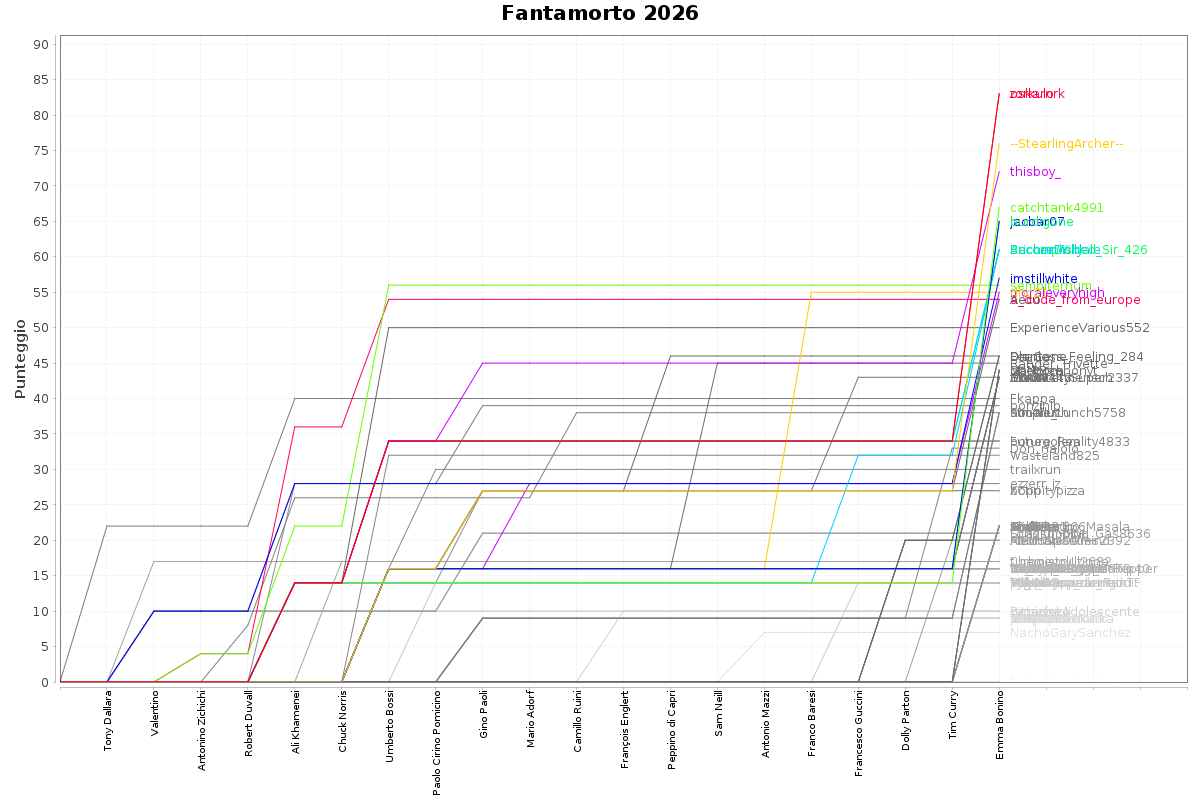
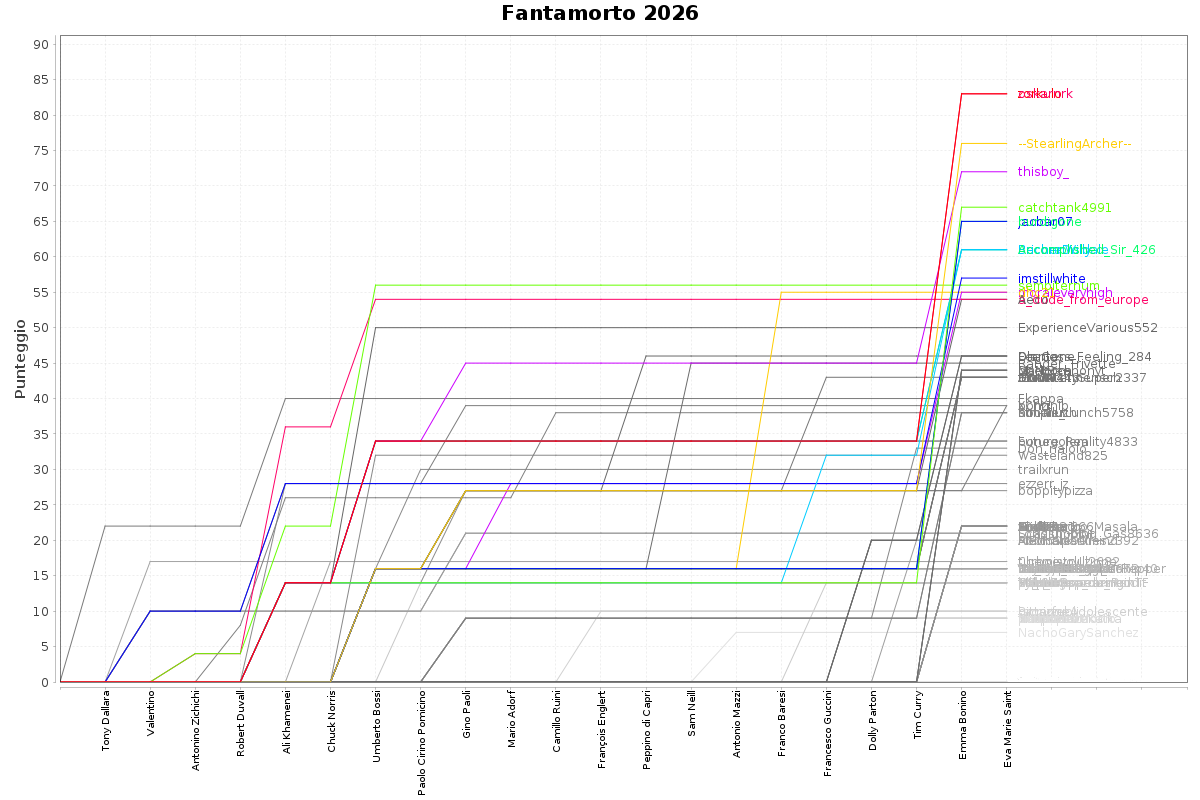
Automatic update

diff --git a/tabellone.html b/tabellone.html
@@ -1621,6 +1621,61 @@
 </tr>
 
 <tr>
+	<td>XChri</td>
+	<td>Nessuno tocchi Mel Brooks</td>
+	<td>
+	
+	<span class="tooltip"><span class="tooltiptext">
+		
+		&nbsp;+16 - MORTO (Umberto Bossi, età: 84)<br/>
+		
+		&nbsp;+3 - SNIPER (Eva Marie Saint)<br/>
+		
+		&nbsp;+0 - MORTO (Eva Marie Saint, età: 102)<br/>
+		
+		&nbsp;+9 - MORTO (Gino Paoli, età: 91)<br/>
+		
+		&nbsp;+5 - INCLUSIVITY (maschio, femmina)<br/>
+		
+		&nbsp;+2 - GLOBETROTTER (Italia, Stati Uniti d&#x27;America)<br/>
+		
+		&nbsp;+4 - JACK OF ALL TRADES (cantautore, attore televisivo, politico)<br/>
+		
+	</span>39</span>
+	</td>
+	
+	
+	
+		<td><a href="https://www.wikidata.org/wiki/Q3080523">Franca Pilla</a> <span class="gray">105</span></td>	
+	
+		<td><a href="https://www.wikidata.org/wiki/Q228928">Eva Marie Saint</a> <span class="gray">102</span>†</td>	
+	
+		<td><a href="https://www.wikidata.org/wiki/Q470554">Gino Paoli</a> <span class="gray">91</span>†</td>	
+	
+		<td><a href="https://www.wikidata.org/wiki/Q47832">Umberto Bossi</a> <span class="gray">84</span>†</td>	
+	
+		<td><a href="https://www.wikidata.org/wiki/Q310295">Dick Van Dyke</a> <span class="gray">100</span></td>	
+	
+		<td><a href="https://www.wikidata.org/wiki/Q9049">Noam Chomsky</a> <span class="gray">97</span></td>	
+	
+		<td><a href="https://www.wikidata.org/wiki/Q43203">Clint Eastwood</a> <span class="gray">96</span></td>	
+	
+		<td><a href="https://www.wikidata.org/wiki/Q12908">George Soros</a> <span class="gray">96</span></td>	
+	
+		<td><a href="https://www.wikidata.org/wiki/Q172724">Bernie Ecclestone</a> <span class="gray">95</span></td>	
+	
+		<td><a href="https://www.wikidata.org/wiki/Q46809">Raúl Castro</a> <span class="gray">95</span></td>	
+	
+		<td><a href="https://www.wikidata.org/wiki/Q1312821">Renzo Arbore</a> <span class="gray">89</span></td>	
+	
+		<td><a href="https://www.wikidata.org/wiki/Q199943">Adriano Celentano</a> <span class="gray">88</span></td>	
+	
+	
+		
+	<td>95</td>
+</tr>
+
+<tr>
 	<td>not-much</td>
 	<td>Time_To_Say_Goodbye</td>
 	<td>
@@ -2102,53 +2157,6 @@
 	
 		
 	<td>72.17</td>
-</tr>
-
-<tr>
-	<td>XChri</td>
-	<td>Nessuno tocchi Mel Brooks</td>
-	<td>
-	
-	<span class="tooltip"><span class="tooltiptext">
-		
-		&nbsp;+16 - MORTO (Umberto Bossi, età: 84)<br/>
-		
-		&nbsp;+9 - MORTO (Gino Paoli, età: 91)<br/>
-		
-		&nbsp;+2 - JACK OF ALL TRADES (cantautore, politico)<br/>
-		
-	</span>27</span>
-	</td>
-	
-	
-	
-		<td><a href="https://www.wikidata.org/wiki/Q3080523">Franca Pilla</a> <span class="gray">105</span></td>	
-	
-		<td><a href="https://www.wikidata.org/wiki/Q470554">Gino Paoli</a> <span class="gray">91</span>†</td>	
-	
-		<td><a href="https://www.wikidata.org/wiki/Q47832">Umberto Bossi</a> <span class="gray">84</span>†</td>	
-	
-		<td><a href="https://www.wikidata.org/wiki/Q228928">Eva Marie Saint</a> <span class="gray">102</span></td>	
-	
-		<td><a href="https://www.wikidata.org/wiki/Q310295">Dick Van Dyke</a> <span class="gray">100</span></td>	
-	
-		<td><a href="https://www.wikidata.org/wiki/Q9049">Noam Chomsky</a> <span class="gray">97</span></td>	
-	
-		<td><a href="https://www.wikidata.org/wiki/Q43203">Clint Eastwood</a> <span class="gray">96</span></td>	
-	
-		<td><a href="https://www.wikidata.org/wiki/Q12908">George Soros</a> <span class="gray">96</span></td>	
-	
-		<td><a href="https://www.wikidata.org/wiki/Q172724">Bernie Ecclestone</a> <span class="gray">95</span></td>	
-	
-		<td><a href="https://www.wikidata.org/wiki/Q46809">Raúl Castro</a> <span class="gray">95</span></td>	
-	
-		<td><a href="https://www.wikidata.org/wiki/Q1312821">Renzo Arbore</a> <span class="gray">89</span></td>	
-	
-		<td><a href="https://www.wikidata.org/wiki/Q199943">Adriano Celentano</a> <span class="gray">88</span></td>	
-	
-	
-		
-	<td>95</td>
 </tr>
 
 <tr>
@@ -6586,7 +6594,7 @@
 <h1>Statistiche</h1>
 <p>Utenti iscritti: <b>163</b></p>
 <p>Atleti in gara: <b>633</b></p>
-<p>Età media atleti: <b>67.96</b></p>
+<p>Età media atleti: <b>67.91</b></p>
 <p>Nazioni rappresentate: <b>72</b></p>
 <p>Occupazioni distinte: <b>142</b></p>
 <p>Generi distinti: <b>6</b></p>
@@ -6599,8 +6607,6 @@
 
 <li>104 anni - Ray Anthony</li>
 
-<li>102 anni - Eva Marie Saint</li>
-
 <li>100 anni - David Attenborough</li>
 
 <li>100 anni - Dick Van Dyke</li>
@@ -6612,6 +6618,8 @@
 <li>100 anni - Teddy Reno</li>
 
 <li>99 anni - Rosemary Harris</li>
+
+<li>98 anni - Jone Spartano</li>
 
 </ul>
 <p>Atleti più giovani:</p>
@@ -6729,6 +6737,8 @@
 
 <li>Emma Bonino - 2026-09-11 (78)</li>
 
+<li>Eva Marie Saint - 2026-10-06 (102)</li>
+
 </ul>
 
 <p>Unicit&agrave; squadre:<br/><small>(punteggio indicante quanto una squadra usa atleti poco o per nulla presenti in altre squadre)</small></p>
@@ -6778,7 +6788,7 @@
 
 
 <br/>
-<small>Bot uptime: 87d 15h 15m 25s</small><br/>
-<small>Aggiornato: 2026-10-07 00:18:29</small>
+<small>Bot uptime: 88d 16m 44s</small><br/>
+<small>Aggiornato: 2026-10-07 09:19:48</small>
 </body>
 </html>

diff --git a/tabellone2026.html b/tabellone2026.html
@@ -1621,6 +1621,61 @@
 </tr>
 
 <tr>
+	<td>XChri</td>
+	<td>Nessuno tocchi Mel Brooks</td>
+	<td>
+	
+	<span class="tooltip"><span class="tooltiptext">
+		
+		&nbsp;+16 - MORTO (Umberto Bossi, età: 84)<br/>
+		
+		&nbsp;+3 - SNIPER (Eva Marie Saint)<br/>
+		
+		&nbsp;+0 - MORTO (Eva Marie Saint, età: 102)<br/>
+		
+		&nbsp;+9 - MORTO (Gino Paoli, età: 91)<br/>
+		
+		&nbsp;+5 - INCLUSIVITY (maschio, femmina)<br/>
+		
+		&nbsp;+2 - GLOBETROTTER (Italia, Stati Uniti d&#x27;America)<br/>
+		
+		&nbsp;+4 - JACK OF ALL TRADES (cantautore, attore televisivo, politico)<br/>
+		
+	</span>39</span>
+	</td>
+	
+	
+	
+		<td><a href="https://www.wikidata.org/wiki/Q3080523">Franca Pilla</a> <span class="gray">105</span></td>	
+	
+		<td><a href="https://www.wikidata.org/wiki/Q228928">Eva Marie Saint</a> <span class="gray">102</span>†</td>	
+	
+		<td><a href="https://www.wikidata.org/wiki/Q470554">Gino Paoli</a> <span class="gray">91</span>†</td>	
+	
+		<td><a href="https://www.wikidata.org/wiki/Q47832">Umberto Bossi</a> <span class="gray">84</span>†</td>	
+	
+		<td><a href="https://www.wikidata.org/wiki/Q310295">Dick Van Dyke</a> <span class="gray">100</span></td>	
+	
+		<td><a href="https://www.wikidata.org/wiki/Q9049">Noam Chomsky</a> <span class="gray">97</span></td>	
+	
+		<td><a href="https://www.wikidata.org/wiki/Q43203">Clint Eastwood</a> <span class="gray">96</span></td>	
+	
+		<td><a href="https://www.wikidata.org/wiki/Q12908">George Soros</a> <span class="gray">96</span></td>	
+	
+		<td><a href="https://www.wikidata.org/wiki/Q172724">Bernie Ecclestone</a> <span class="gray">95</span></td>	
+	
+		<td><a href="https://www.wikidata.org/wiki/Q46809">Raúl Castro</a> <span class="gray">95</span></td>	
+	
+		<td><a href="https://www.wikidata.org/wiki/Q1312821">Renzo Arbore</a> <span class="gray">89</span></td>	
+	
+		<td><a href="https://www.wikidata.org/wiki/Q199943">Adriano Celentano</a> <span class="gray">88</span></td>	
+	
+	
+		
+	<td>95</td>
+</tr>
+
+<tr>
 	<td>not-much</td>
 	<td>Time_To_Say_Goodbye</td>
 	<td>
@@ -2102,53 +2157,6 @@
 	
 		
 	<td>72.17</td>
-</tr>
-
-<tr>
-	<td>XChri</td>
-	<td>Nessuno tocchi Mel Brooks</td>
-	<td>
-	
-	<span class="tooltip"><span class="tooltiptext">
-		
-		&nbsp;+16 - MORTO (Umberto Bossi, età: 84)<br/>
-		
-		&nbsp;+9 - MORTO (Gino Paoli, età: 91)<br/>
-		
-		&nbsp;+2 - JACK OF ALL TRADES (cantautore, politico)<br/>
-		
-	</span>27</span>
-	</td>
-	
-	
-	
-		<td><a href="https://www.wikidata.org/wiki/Q3080523">Franca Pilla</a> <span class="gray">105</span></td>	
-	
-		<td><a href="https://www.wikidata.org/wiki/Q470554">Gino Paoli</a> <span class="gray">91</span>†</td>	
-	
-		<td><a href="https://www.wikidata.org/wiki/Q47832">Umberto Bossi</a> <span class="gray">84</span>†</td>	
-	
-		<td><a href="https://www.wikidata.org/wiki/Q228928">Eva Marie Saint</a> <span class="gray">102</span></td>	
-	
-		<td><a href="https://www.wikidata.org/wiki/Q310295">Dick Van Dyke</a> <span class="gray">100</span></td>	
-	
-		<td><a href="https://www.wikidata.org/wiki/Q9049">Noam Chomsky</a> <span class="gray">97</span></td>	
-	
-		<td><a href="https://www.wikidata.org/wiki/Q43203">Clint Eastwood</a> <span class="gray">96</span></td>	
-	
-		<td><a href="https://www.wikidata.org/wiki/Q12908">George Soros</a> <span class="gray">96</span></td>	
-	
-		<td><a href="https://www.wikidata.org/wiki/Q172724">Bernie Ecclestone</a> <span class="gray">95</span></td>	
-	
-		<td><a href="https://www.wikidata.org/wiki/Q46809">Raúl Castro</a> <span class="gray">95</span></td>	
-	
-		<td><a href="https://www.wikidata.org/wiki/Q1312821">Renzo Arbore</a> <span class="gray">89</span></td>	
-	
-		<td><a href="https://www.wikidata.org/wiki/Q199943">Adriano Celentano</a> <span class="gray">88</span></td>	
-	
-	
-		
-	<td>95</td>
 </tr>
 
 <tr>
@@ -6586,7 +6594,7 @@
 <h1>Statistiche</h1>
 <p>Utenti iscritti: <b>163</b></p>
 <p>Atleti in gara: <b>633</b></p>
-<p>Età media atleti: <b>67.96</b></p>
+<p>Età media atleti: <b>67.91</b></p>
 <p>Nazioni rappresentate: <b>72</b></p>
 <p>Occupazioni distinte: <b>142</b></p>
 <p>Generi distinti: <b>6</b></p>
@@ -6599,8 +6607,6 @@
 
 <li>104 anni - Ray Anthony</li>
 
-<li>102 anni - Eva Marie Saint</li>
-
 <li>100 anni - David Attenborough</li>
 
 <li>100 anni - Dick Van Dyke</li>
@@ -6612,6 +6618,8 @@
 <li>100 anni - Teddy Reno</li>
 
 <li>99 anni - Rosemary Harris</li>
+
+<li>98 anni - Jone Spartano</li>
 
 </ul>
 <p>Atleti più giovani:</p>
@@ -6729,6 +6737,8 @@
 
 <li>Emma Bonino - 2026-09-11 (78)</li>
 
+<li>Eva Marie Saint - 2026-10-06 (102)</li>
+
 </ul>
 
 <p>Unicit&agrave; squadre:<br/><small>(punteggio indicante quanto una squadra usa atleti poco o per nulla presenti in altre squadre)</small></p>
@@ -6778,7 +6788,7 @@
 
 
 <br/>
-<small>Bot uptime: 87d 15h 15m 25s</small><br/>
-<small>Aggiornato: 2026-10-07 00:18:29</small>
+<small>Bot uptime: 88d 16m 44s</small><br/>
+<small>Aggiornato: 2026-10-07 09:19:48</small>
 </body>
 </html>
